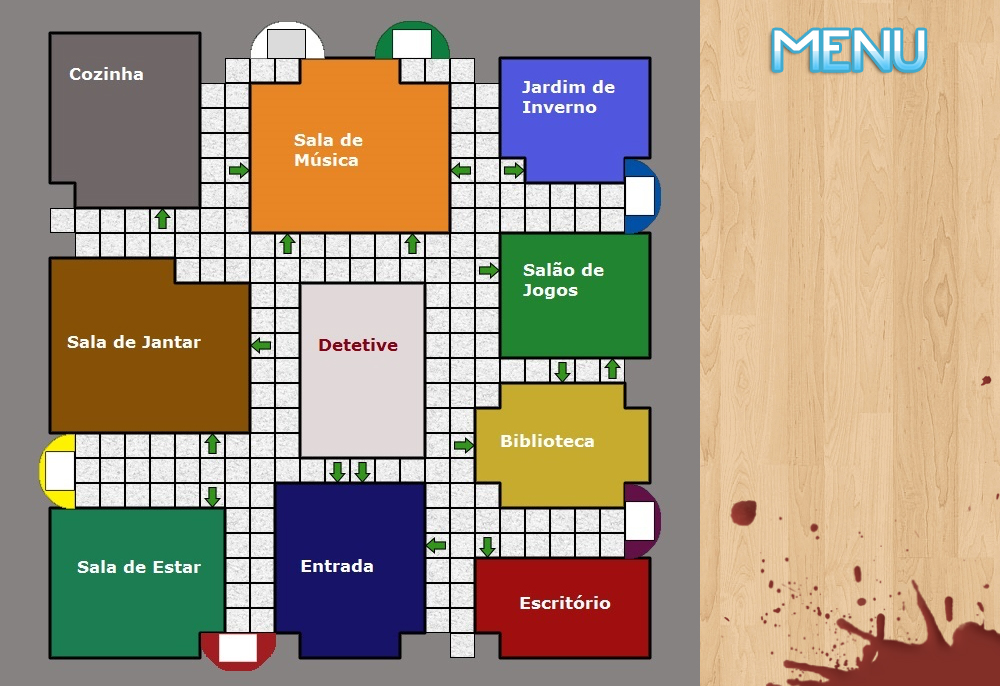
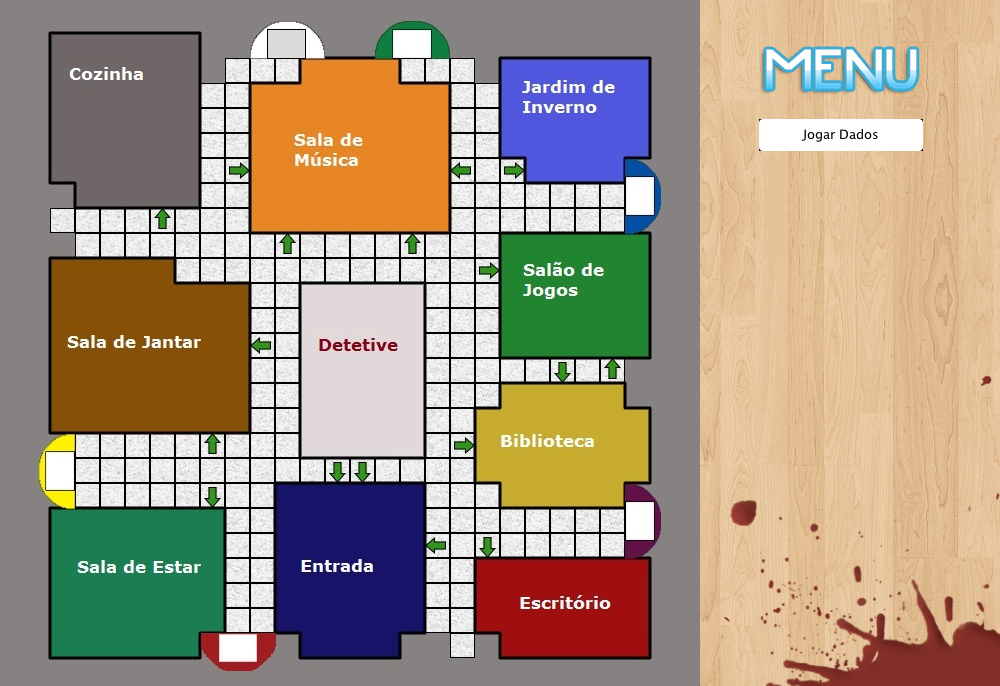
posiçoes iniciais

Changed region(s): [[0.744, 0.0306, 0.93, 0.2449]]

diff --git a/1211874-1321873/src/board.java b/1211874-1321873/src/board.java
@@ -41,28 +41,34 @@ public class board extends JFrame {
 		
 		b1.addActionListener(new RollDice(this));
 		size = b1.getPreferredSize();
-		b1.setBounds(766, 119, size.width + 50, size.height + 10);
+		b1.setBounds(758, 119, size.width + 50, size.height + 10);
 		size = b2.getPreferredSize();
-		b2.setBounds(397, 42, 25, 23); // Esta na posicao inicial
+		b2.setBounds(400, 36, 25, 23); // Esta na posicao inicial
 		b2.setBackground(Color.GREEN);
 		size = b3.getPreferredSize();
-		b3.setBounds(73, 215, 25, 23);
+		b3.setBounds(275, 36, 25, 23);
 		b3.setBackground(Color.WHITE);
 		size = b4.getPreferredSize();
-		b4.setBounds(73, 215, 25, 23);
+		b4.setBounds(625, 511, 25, 23);
 		b4.setBackground(Color.MAGENTA);
 		size = b5.getPreferredSize();
-		b5.setBounds(73, 215, 25, 23);
+		b5.setBounds(625, 186, 25, 23);
 		b5.setBackground(Color.BLUE);
 		size = b6.getPreferredSize();
-		b6.setBounds(73, 215, 25, 23);
+		b6.setBounds(50, 459, 25, 23);
 		b6.setBackground(Color.YELLOW);
 		size = b7.getPreferredSize();
-		b7.setBounds(73, 215, 25, 23);
+		b7.setBounds(225, 634, 25, 23);
 		b7.setBackground(Color.RED);
 		tabuleiro.add(b1);
 		tabuleiro.add(b2);
-		
+		tabuleiro.add(b3);
+		tabuleiro.add(b4);
+		tabuleiro.add(b5);
+		tabuleiro.add(b6);
+		tabuleiro.add(b7);
+		//altura do quadrado 25
+		//largura do quadrado 25
 		setVisible(true);
 	}
 	
